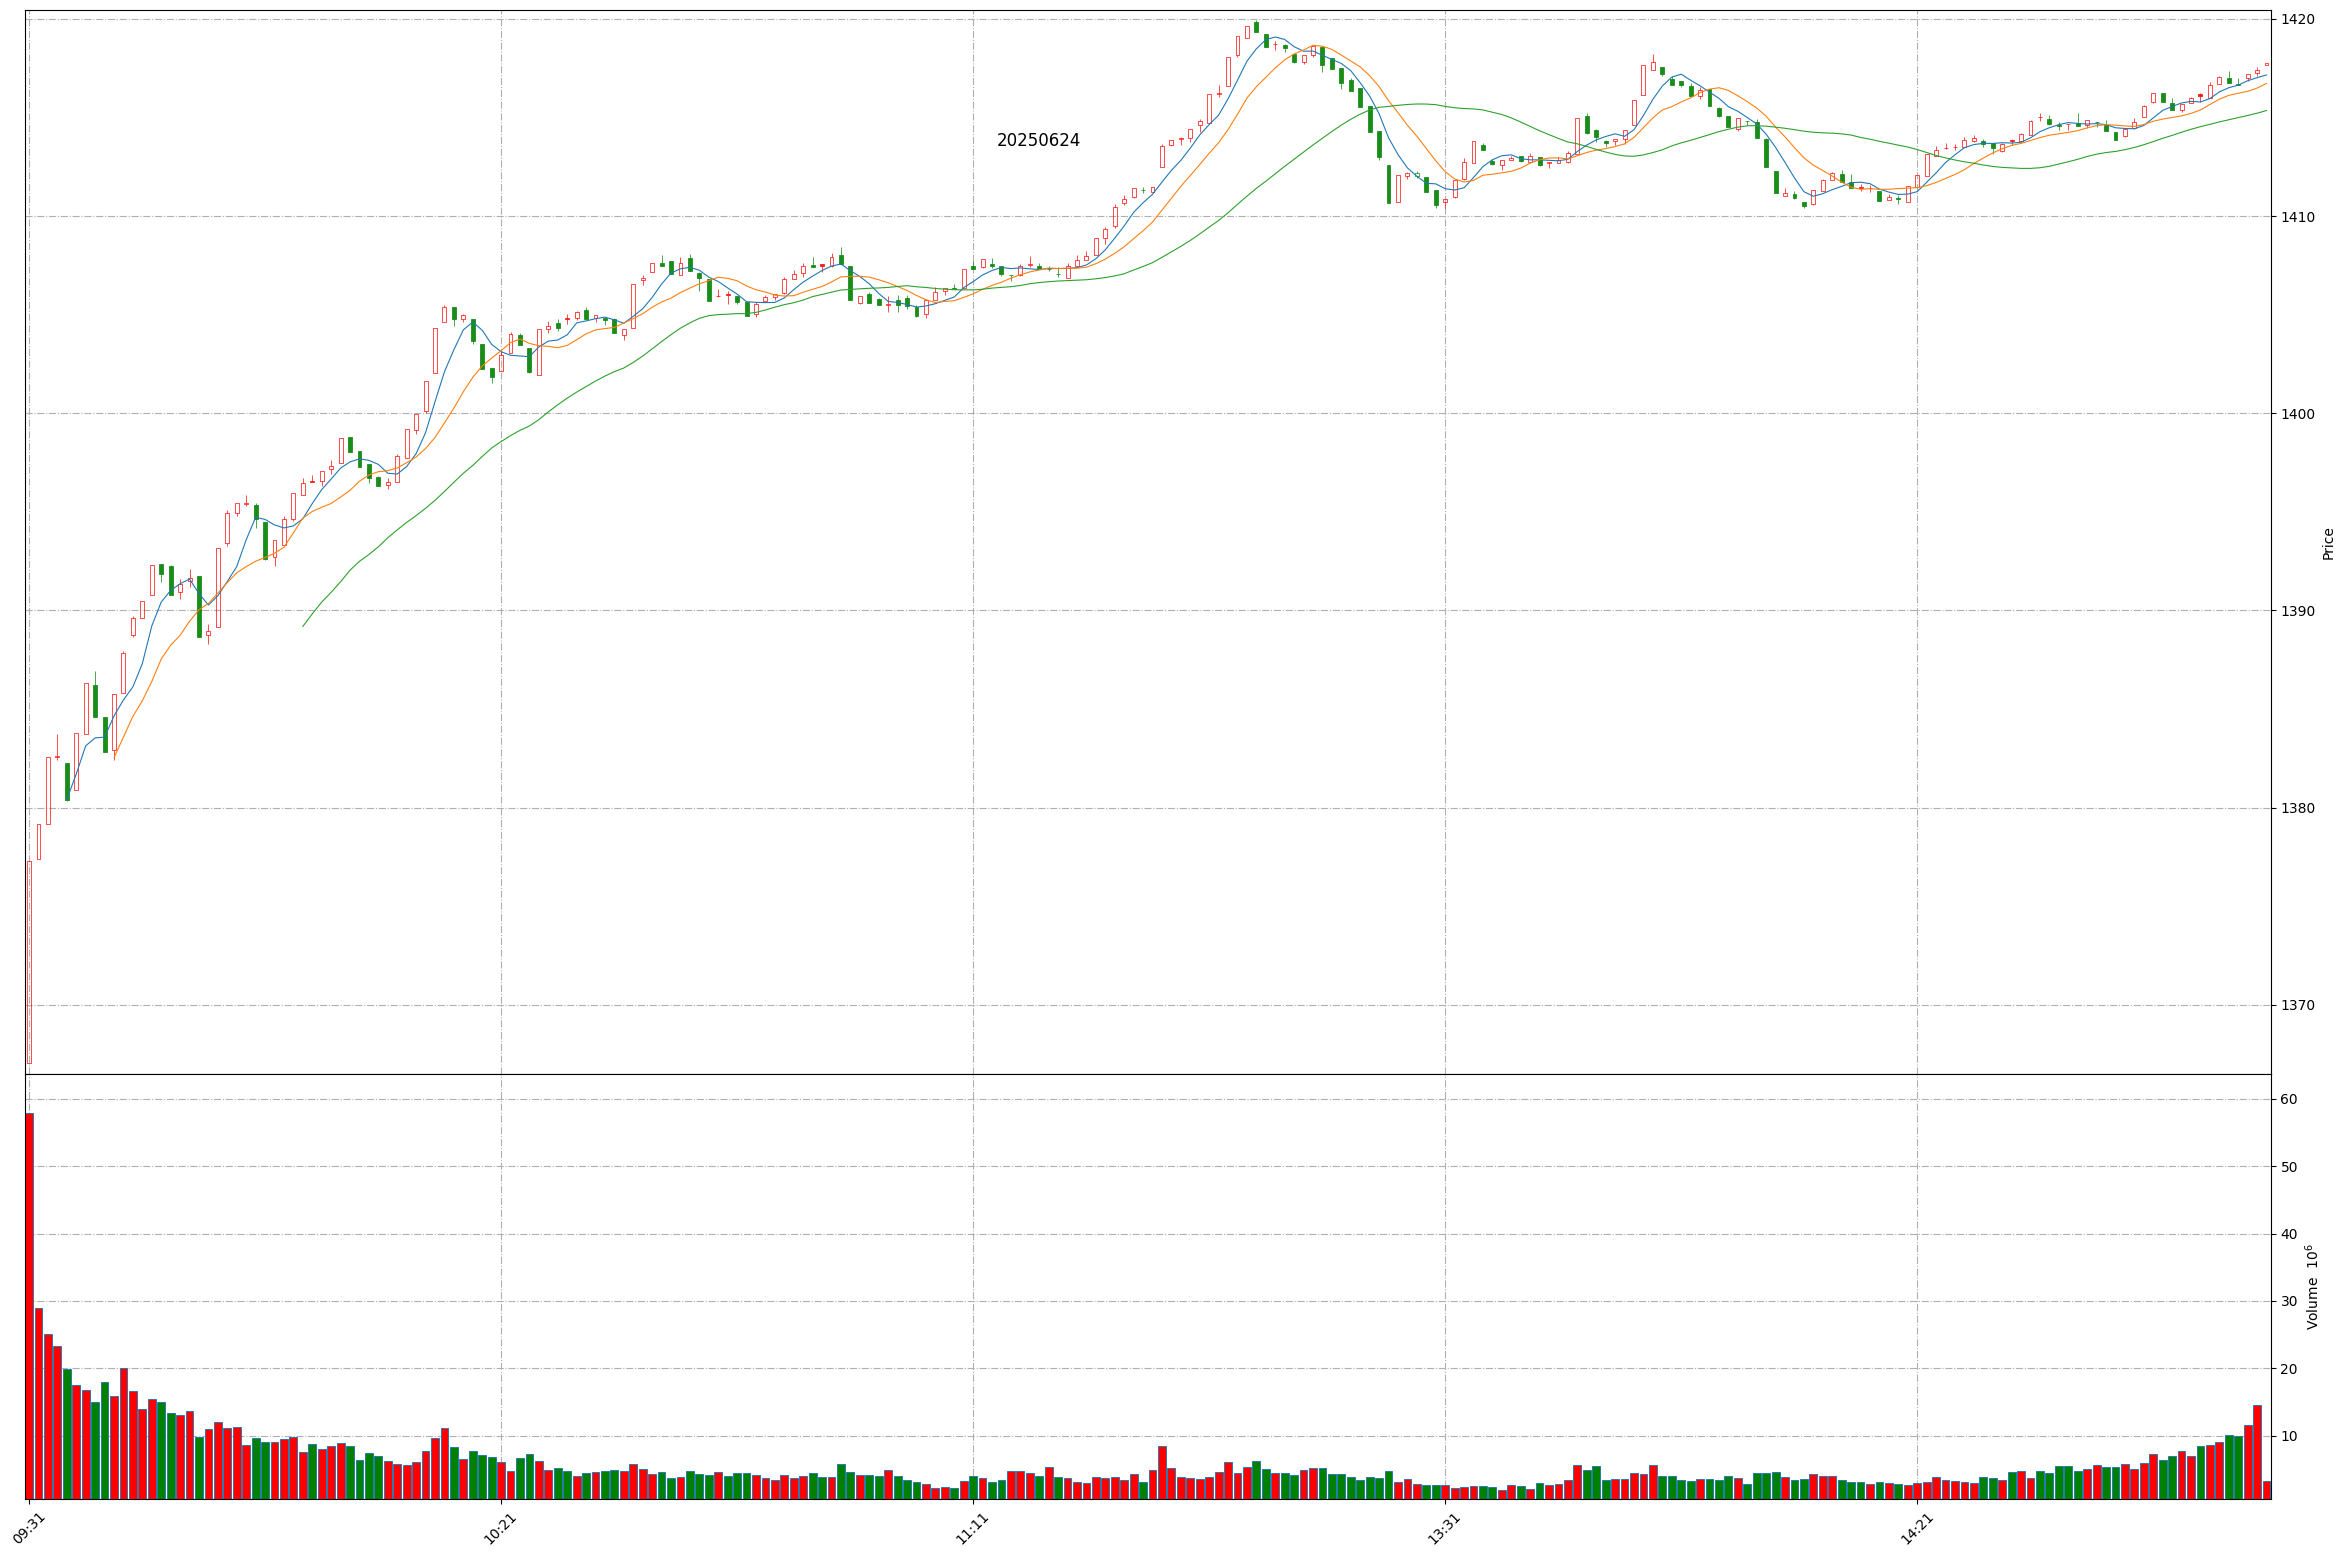
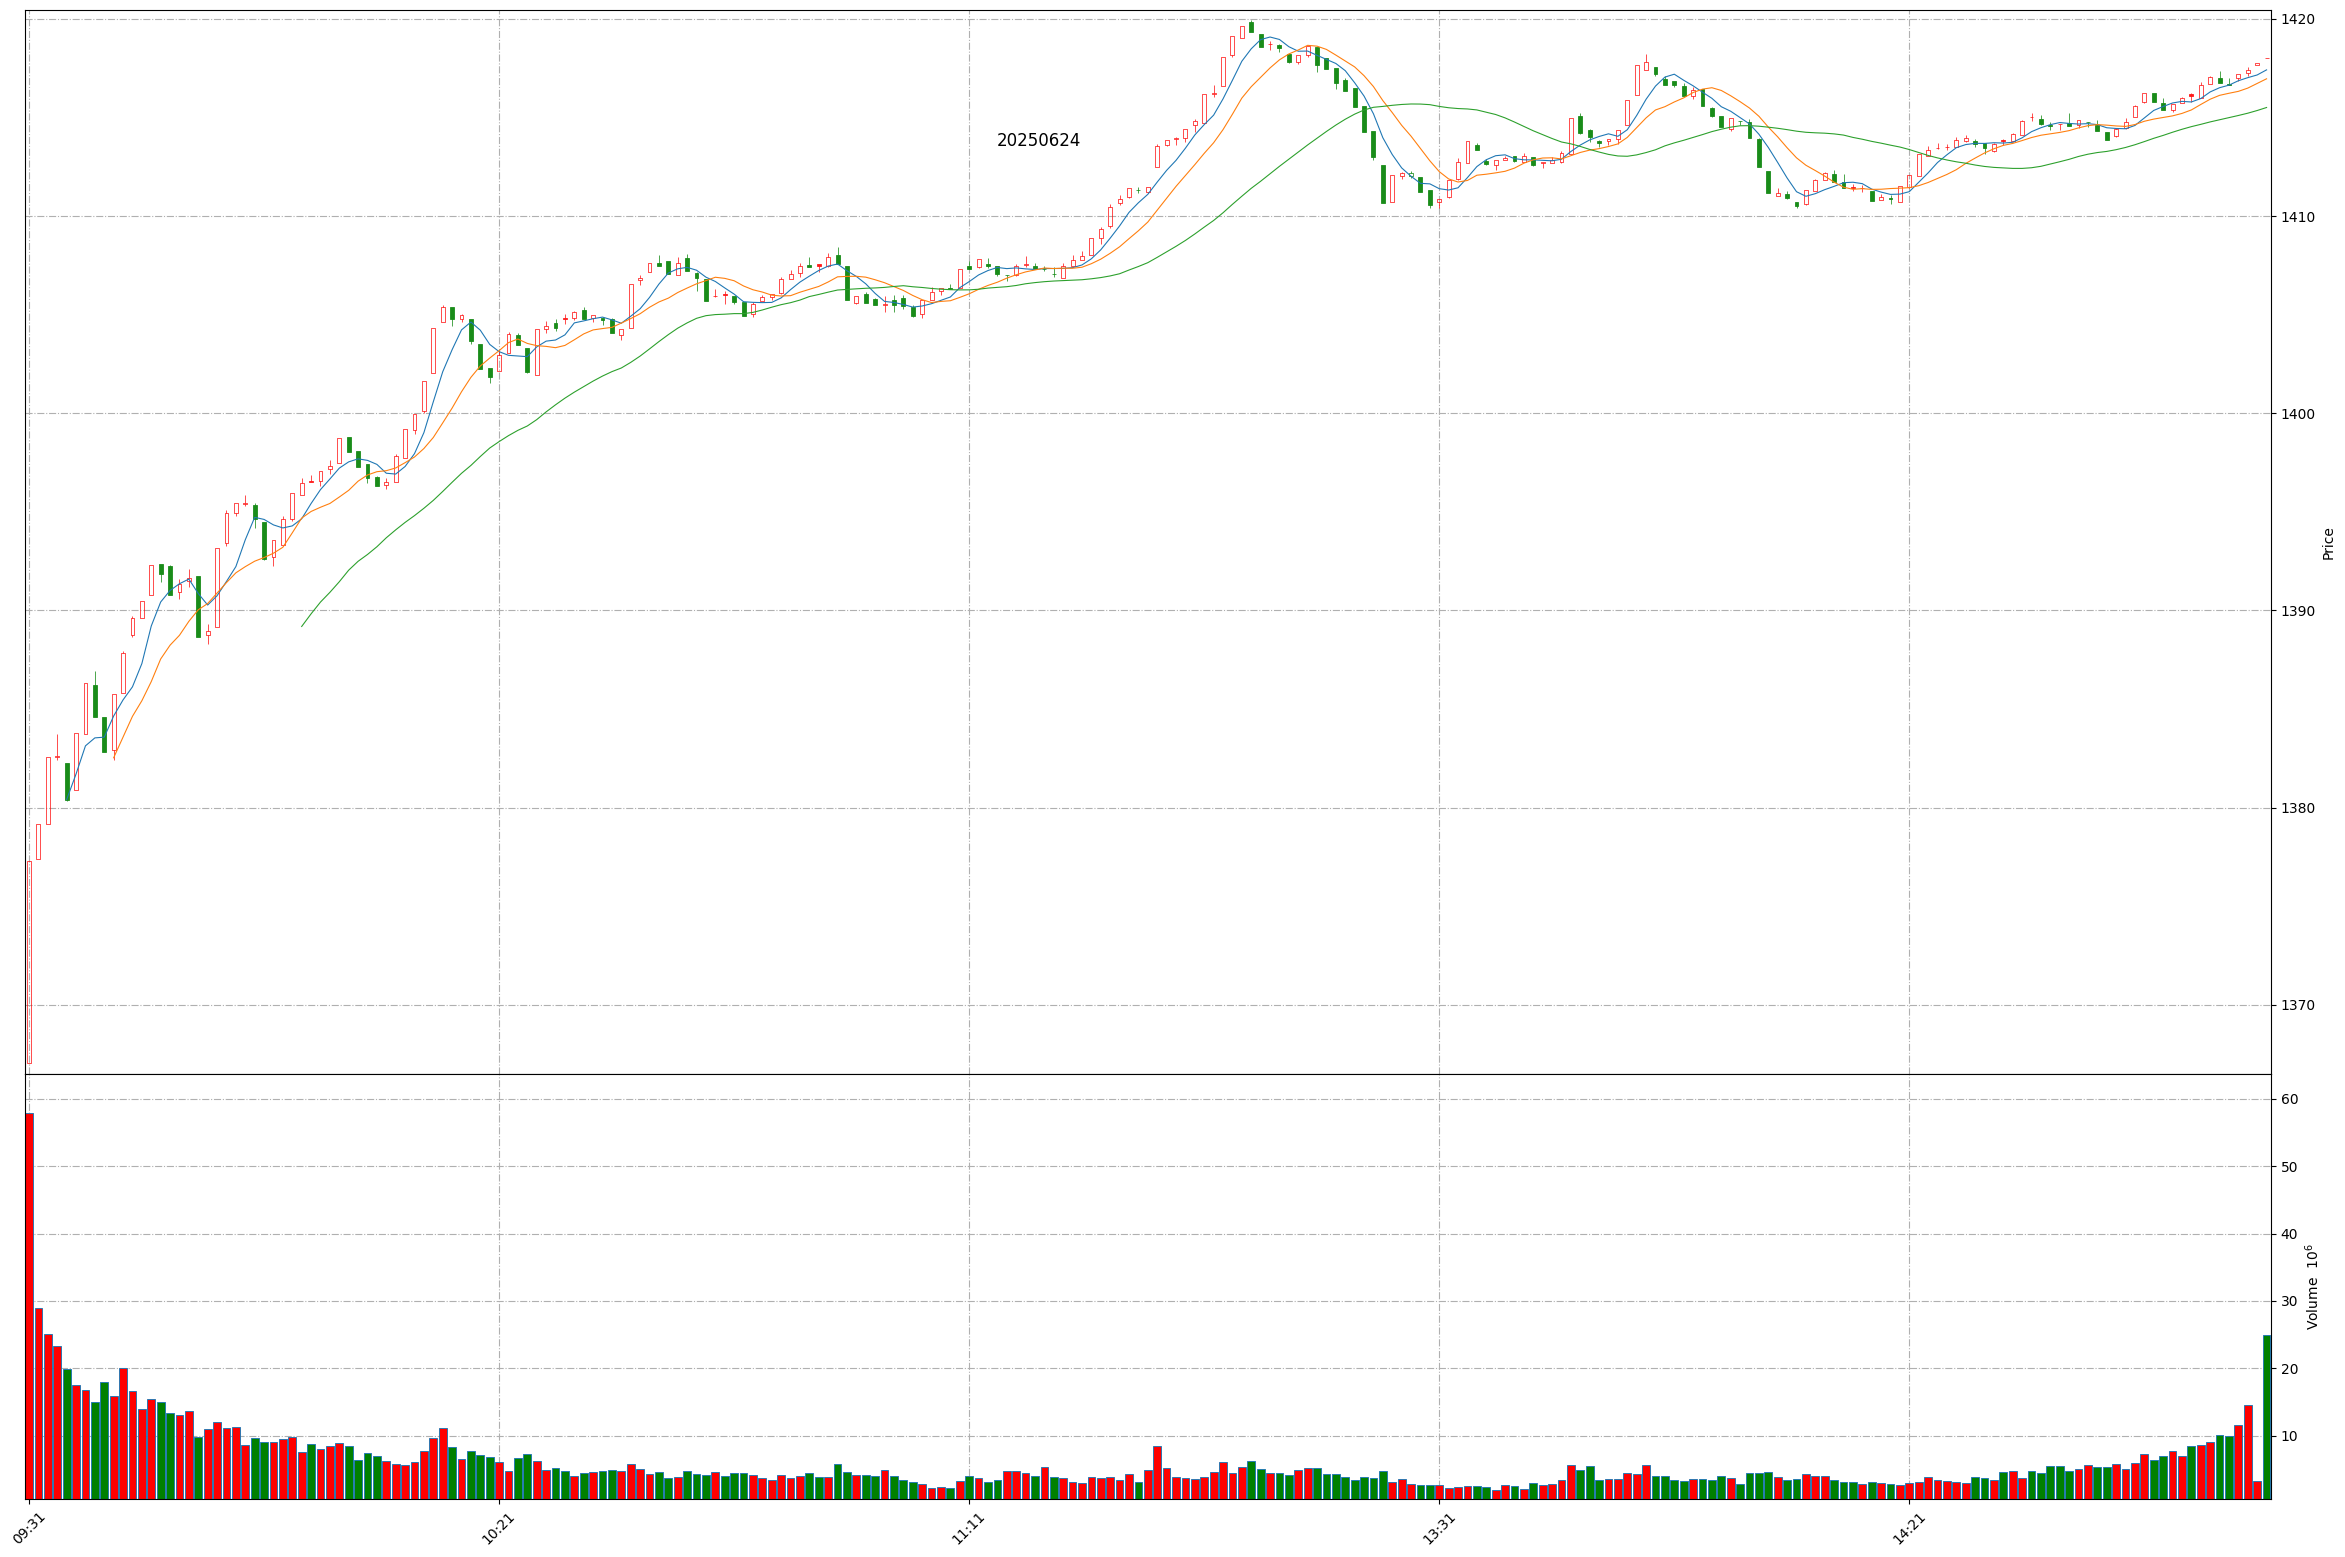
Github action update at 2025-06-24 15:15:23.

diff --git a/README.md b/README.md
@@ -1,11 +1,11 @@
 
 # Daily-A-share-market-quotes 每日 A 股指数（5min 更新）- 20250624
 
-### 上证指数 20250624 14:59
+### 上证指数 20250624 15:15
 ![](./fig/2025/6/20250624-sh000001.png)
 
-### 深证成指 20250624 14:59
+### 深证成指 20250624 15:15
 ![](./fig/2025/6/20250624-sz399001.png)
 
-### 北证50 20250624 14:59
+### 北证50 20250624 15:15
 ![](./fig/2025/6/20250624-bj899050.png)
